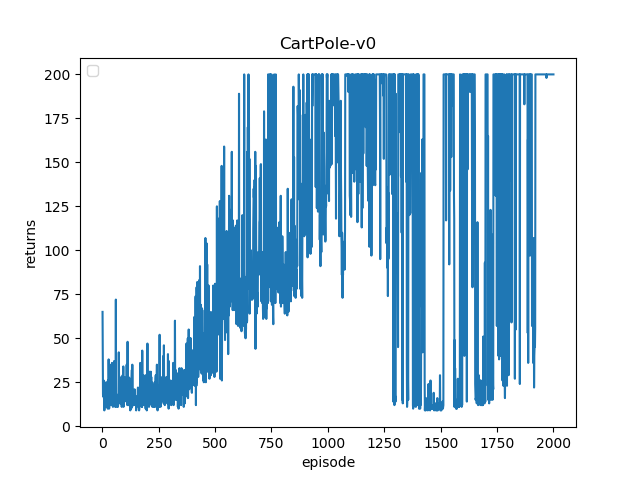
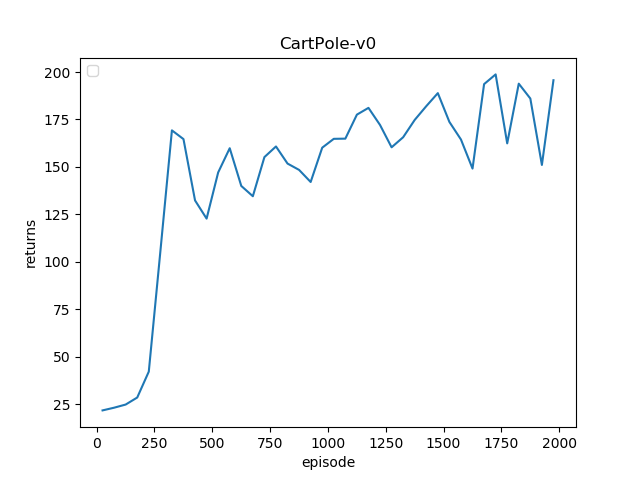
make greedy use real network instead of target network

diff --git a/all/presets/dqn/classic_control/__init__.py b/all/presets/dqn/classic_control/__init__.py
@@ -1,6 +1,7 @@
 # /Users/cpnota/repos/autonomous-learning-library/all/approximation/value/action/torch.py
 from torch import nn
 from torch.optim import Adam
+from torch.nn.functional import mse_loss
 from all.layers import Flatten
 from all.approximation import QTabular
 from all.agents import DQN
@@ -18,20 +19,22 @@ def fc_net(env, frames=1):
 
 
 def dqn_cc(
-        lr=1e-4,
+        lr=2e-4,
         target_update_frequency=1000,
         annealing_time=10000,
         prefetch_size=32 * 8,
         minibatch_size=64,
         update_frequency=1,
+        replay_buffer_size=20000
 ):
     def _dqn_cc(env):
         model = fc_net(env)
         optimizer = Adam(model.parameters(), lr=lr)
         q = QTabular(model, optimizer,
-                     target_update_frequency=target_update_frequency)
+                     target_update_frequency=target_update_frequency,
+                     loss=mse_loss)
         policy = GreedyPolicy(q, annealing_time=annealing_time)
-        replay_buffer = ReplayBuffer(100000)
+        replay_buffer = ReplayBuffer(replay_buffer_size)
         return DQN(q, policy, replay_buffer,
                    prefetch_size=prefetch_size,
                    update_frequency=update_frequency,

diff --git a/all/policies/greedy.py b/all/policies/greedy.py
@@ -13,7 +13,8 @@ class GreedyPolicy(Policy):
 
     def __call__(self, state, action=None, prob=False):
         self.anneal()
-        action_scores = self.q.eval(state).squeeze(0)
+        with torch.no_grad():
+            action_scores = self.q(state).squeeze(0)
         if np.random.rand() < self.epsilon:
             return torch.tensor(np.random.randint(action_scores.shape[0]))
 

diff --git a/all/approximation/q_tabular.py b/all/approximation/q_tabular.py
@@ -22,7 +22,8 @@ class QTabular(QFunction):
 
     def __call__(self, states, actions=None):
         result = self._eval(states, actions, self.model)
-        self.cache = result
+        if result.requires_grad:
+            self.cache = result
         return result.detach()
 
     def eval(self, states, actions=None):

diff --git a/all/presets/dqn/classic_control/demo.py b/all/presets/dqn/classic_control/demo.py
@@ -9,7 +9,7 @@ def run():
         print_every=1,
         render=True
     )
-    experiment.plot(filename="dqn_cartpole")
+    experiment.plot(filename="dqn_cartpole", frequency=50)
 
 if __name__ == '__main__':
     run()
